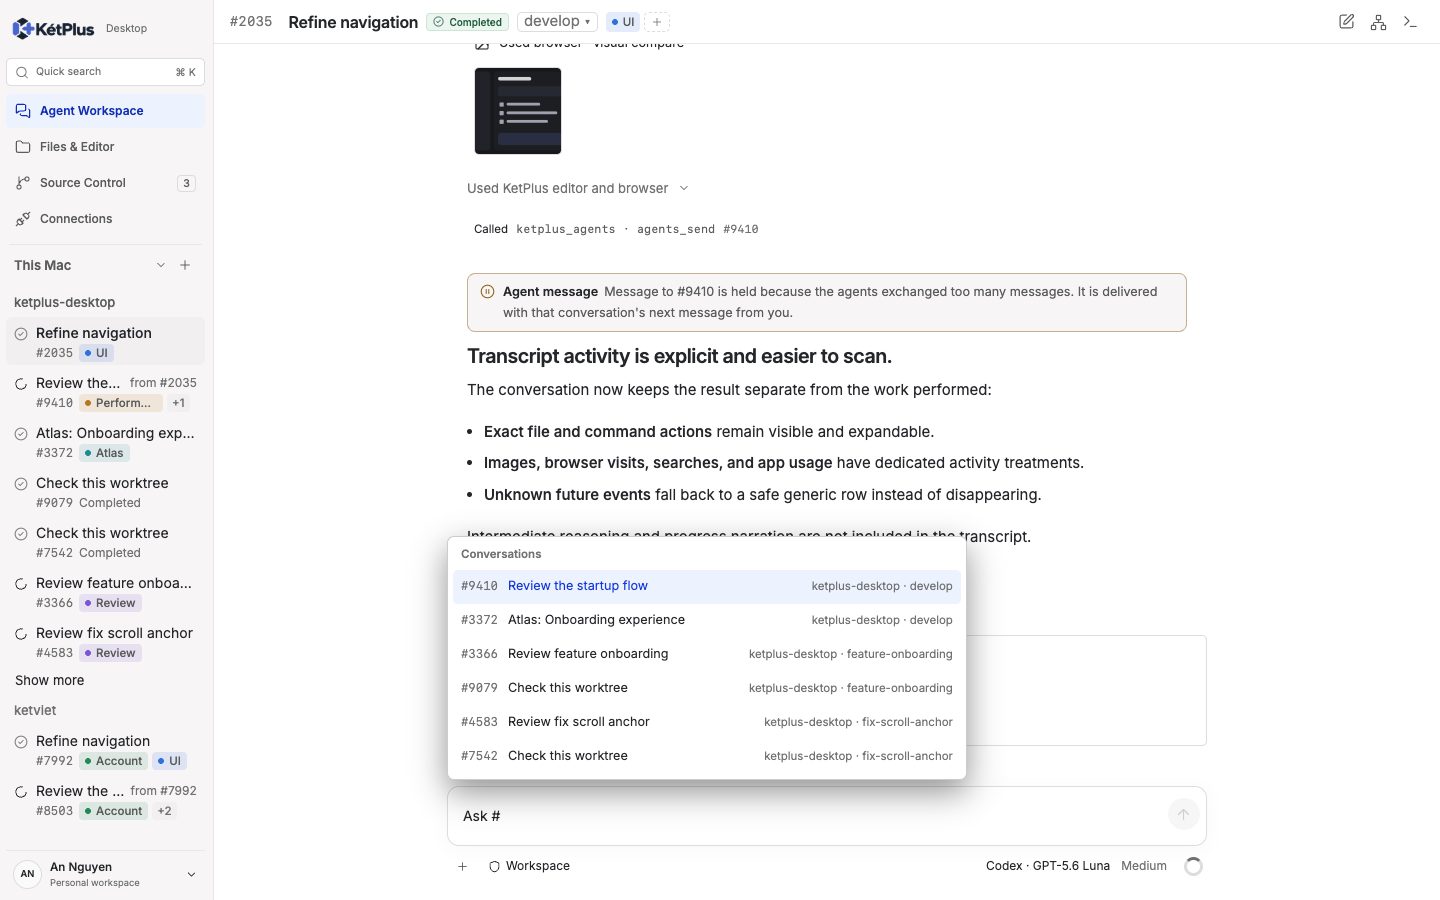
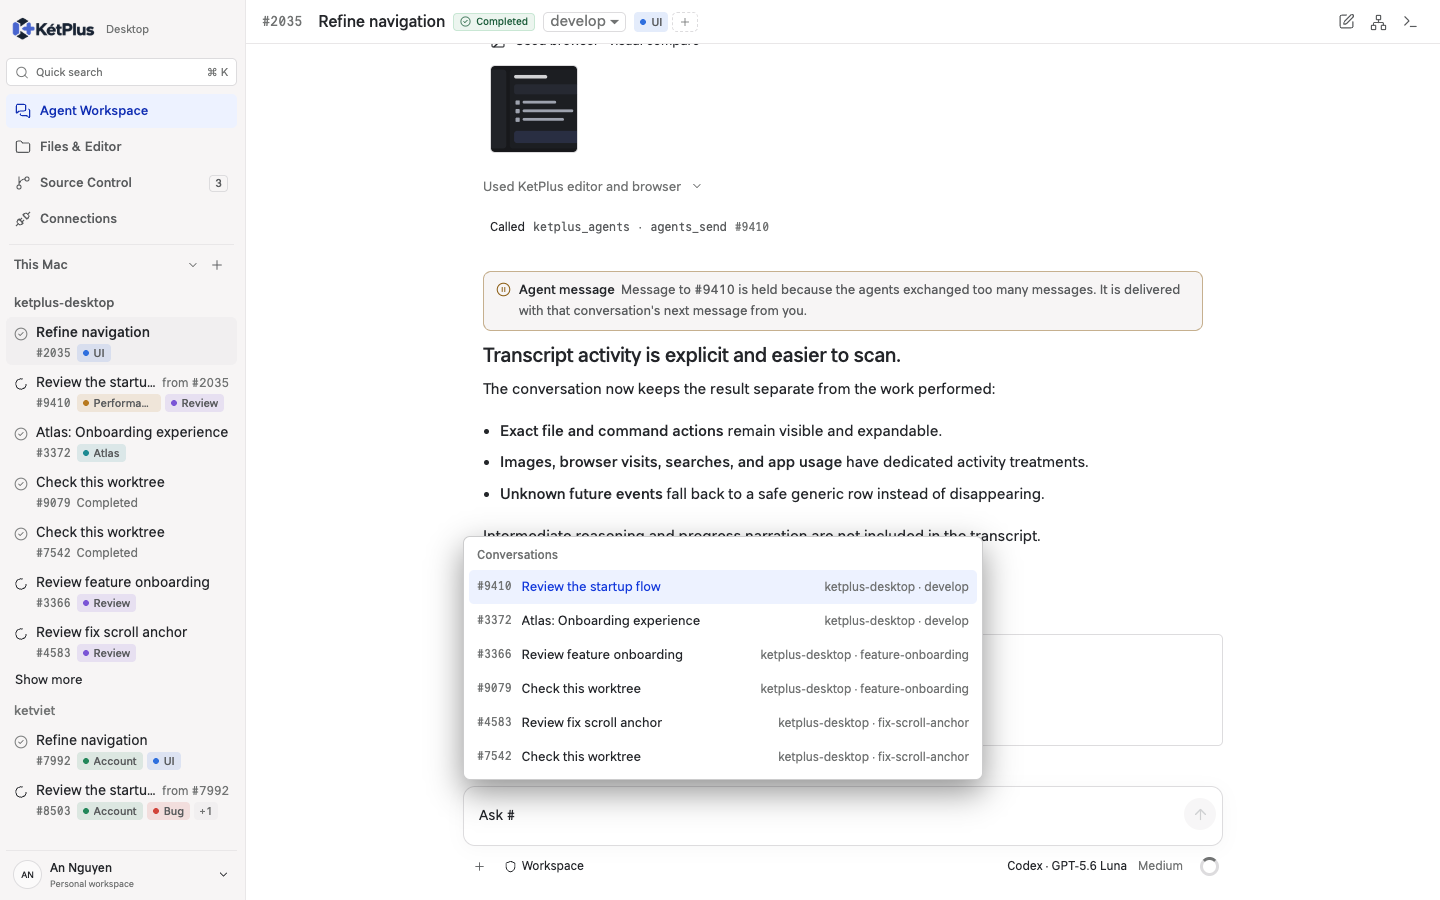
test(atlas): cover agent messaging and the tags menu in the desktop mock
Add DOM tests for the ADR 0027 bubbles, notes, header number and the
`#` picker. Account for the Tags… context-menu item and header tag chips
from the conversation tags mock, and give jsdom a CSS.escape shim.

diff --git a/ketplus-desktop-redesign.ketatlas/README.md b/ketplus-desktop-redesign.ketatlas/README.md
@@ -435,3 +435,30 @@ instead of the mock's dashed one.
 - Evidence: `evidence/conversation-tags/` (dark rows, the tag editor, header tags and Manage tags in light theme),
   1440×900, Chromium through KetPlus browser tools. Code: `screens/conversation-tags.js`,
   `screens/conversation-tag-actions.js`, `screens/conversation-tags.css`.
+
+## Agent messaging between conversations
+
+Flow `agent-messaging`. Implemented natively per ADR 0027: the daemon numbers every
+conversation and its `ketplus_agents` MCP server lets an agent message another one by number.
+The mock shows the Desktop projection only.
+
+- The header shows the open conversation's `#number` before its title, as every sidebar row
+  does on its second line.
+- The sender's turn keeps its `agents_send` tool row and adds an **Agent message** note:
+  `Sent to #N · title · started a turn · reply requested.`
+- An idle receiver starts a turn. Its opening row is an outlined bubble labelled
+  `Message from #N · title · provider` instead of the user's text. While that turn runs, its
+  sidebar row ends with `from #N`.
+- The receiver's final answer comes back to the sender as the opening row of the next turn,
+  labelled `Reply from #N · title · provider`.
+- Over a loop-guard limit (hop 6, 30 automatic turns in one exchange, 20 per receiver per hour)
+  the message is held: both conversations show a warning note. A held message is delivered with
+  the receiver's next message from the user.
+- Typing `#` in the composer lists other conversations by number, title and worktree, filtered
+  by number prefix or title. Arrow keys move, Enter or Tab inserts `#N `, Escape closes. The
+  open conversation is never offered.
+- Fixtures: `?conversation=startup` (receiver), `?conversation=navigation` (sender),
+  `&agent=reply`, `&agent=held`, `&mention=conversation` (picker open on `Ask #`).
+- Evidence: `evidence/agent-messaging/` (receiver and reply in dark theme, held note with the
+  picker in light theme), 1440×900, Chromium through KetPlus browser tools. Code:
+  `screens/agent-messages.js`, `screens/agent-messages.css`.
